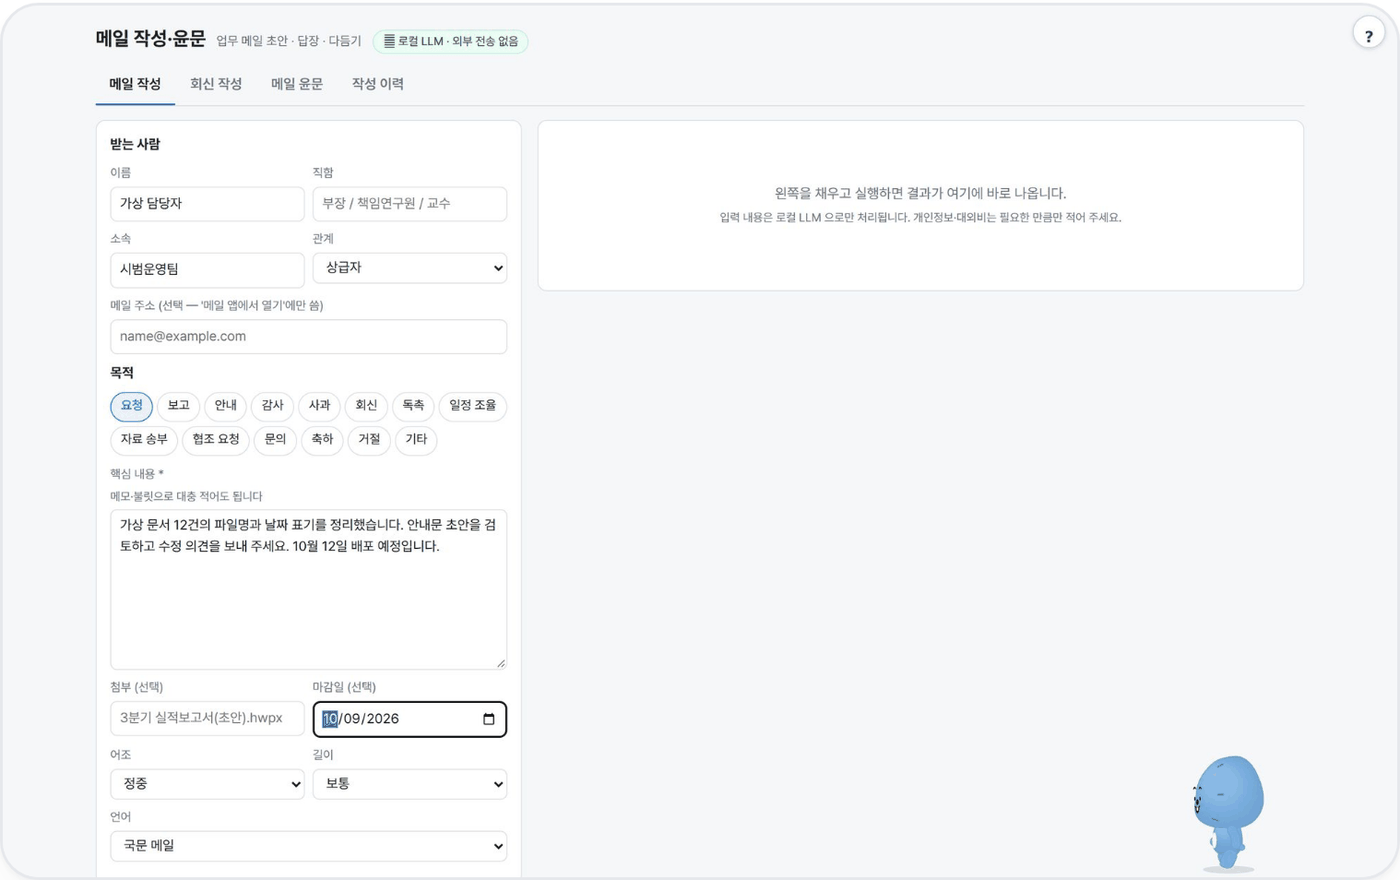
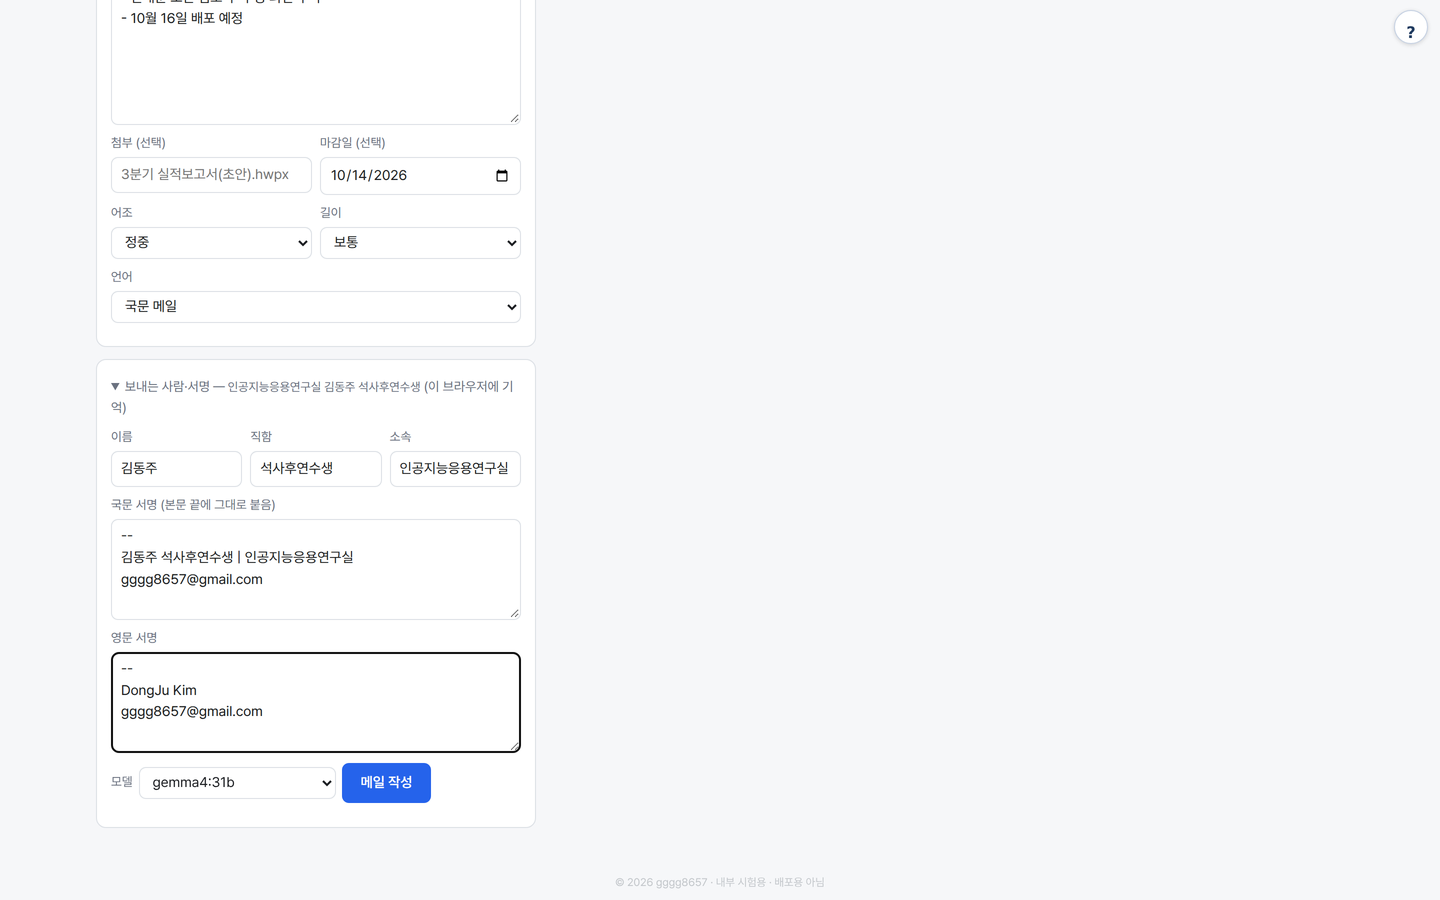
README 사용 화면·예시를 새 실행으로 교체
보내는 사람 김동주 서명으로 요청 메일을 다시 작성해 캡처.

diff --git a/README.md b/README.md
@@ -23,30 +23,45 @@
 
 ## 예시
 
-가상 자료 정리 사례를 `gemma4:31b`로 **메일 작성**(목적 요청)에 실제 실행한 결과입니다.
+가상 자료 정리 사례를 `gemma4:31b`로 **메일 작성**(목적 요청)에 실제 실행한 결과입니다(약 3초). 보내는 사람·서명은 김동주(인공지능응용연구실)로 채웠습니다.
 
 입력:
 
 ```text
-받는 사람: 가상 담당자 · 시범운영팀
-핵심 내용: 가상 문서 12건의 파일명과 날짜 표기를 정리했습니다. 안내문 초안을 검토하고 수정 의견을 보내 주세요. 10월 12일 배포 예정입니다.
-마감일: 2026-10-09
+받는 사람: 박OO 과장 · 시범운영팀 (관계: 상급자)
+핵심 내용:
+- 가상 문서 12건의 파일명과 날짜 표기 정리 완료
+- 안내문 초안 검토 후 수정 의견 부탁
+- 10월 16일 배포 예정
+마감일: 2026-10-14
+국문 서명: -- / 김동주 석사후연수생 | 인공지능응용연구실 / gggg8657@gmail.com
 ```
 
-출력 (제목 후보 3개 중 1번 + 본문 발췌):
+출력 (제목 후보 3개 중 1번 + 본문):
 
 ```text
 [요청] 가상 문서 안내문 초안 검토 요청
 
-…
-원활한 배포 준비를 위해 2026년 10월 9일(금)까지 회신을 부탁드립니다.
+박OO 과장님, 안녕하십니까.
+인공지능응용연구실 김동주입니다.
 
-괜찮으시다면 메일로 수정 의견을 보내 주시기 바랍니다.
+가상 문서 12건의 파일명과 날짜 표기 정리를 완료하여 보고드립니다.
+이와 관련하여 함께 작성한 안내문 초안을 송부하오니, 바쁘신 중에 검토 후 수정 의견을 부탁드립니다.
 
-감사합니다.
+해당 안내문은 10월 16일에 배포할 예정입니다.
+일정을 고려하시어 10월 14일(수)까지 회신 주시면 감사하겠습니다.
+
+괜찮으시다면 메일로 의견 부탁드립니다.
+검토 부탁드립니다. 감사합니다.
+
+김동주 드림
+
+--
+김동주 석사후연수생 | 인공지능응용연구실
+gggg8657@gmail.com
 ```
 
-이 실행은 날짜의 "09 → 9" 표기 차이에도 숫자 알림을 냈습니다. 초안의 "송부드리오니"처럼 실제 첨부 여부와 맞는지도 보내기 전에 확인하세요.
+이 실행은 마감일의 연도 "2026"이 본문에 없다는 숫자 알림을 냈습니다. 초안의 "송부하오니"처럼 실제 첨부 여부와 맞는지도 보내기 전에 확인하세요.
 
 <details><summary>입력 화면</summary>
 
